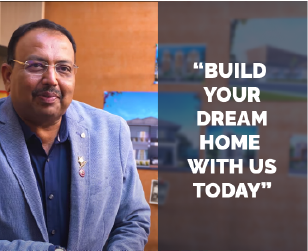
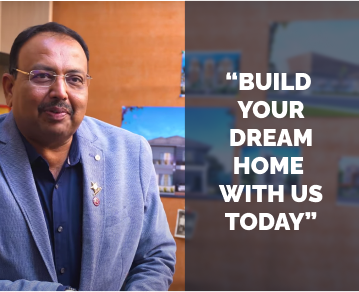
final review

diff --git a/index.html b/index.html
@@ -17,7 +17,9 @@
     
 </head>
 <body>
-  <nav class="navbar navbar-light bg-light">
+
+    <div id="carousel-example-generic" class="carousel slide" data-ride="carousel" data-interval="false">
+       <nav class="navbar navbar-light bg-light">
     <div class="container">
       <a href=" https://www.sandstoneconstruct.com/"> Website</a>
       <a  href="#" class="some1">
@@ -26,7 +28,6 @@
       <a href="https://www.sandstoneconstruct.com/contact.html">Contact</a>
     </div>
   </nav>
-    <div id="carousel-example-generic" class="carousel slide" data-ride="carousel" data-interval="false">
         <!-- Indicators -->
         
         <ol class="carousel-indicators">
@@ -39,8 +40,7 @@
           <li data-target="#carousel-example-generic" data-slide-to="3"></li>
           <li data-target="#carousel-example-generic" data-slide-to="4"></li>
           <li data-target="#carousel-example-generic" data-slide-to="5"></li>
-          <li data-target="#carousel-example-generic" data-slide-to="6"></li>
-          <li data-target="#carousel-example-generic" data-slide-to="7"></li>
+      
         </ol>
       
         <!-- Wrapper for slides -->
@@ -48,7 +48,7 @@
           <div class="item active">
             <img src="images/Frame 1.png" alt="">
             <div class="carousel-caption">
-              <h2>THE SANDSTONE PROJECT</h2>
+              <h2 class="center">THE SANDSTONE PROJECT</h2>
               <ul>
                   <li>One of the leading construction firm specializing in turkey assignments and interior solutions</li>
                   <li>Over 25years of experience in the field</li>
@@ -121,10 +121,10 @@
             </div>
           </div>
           <div class="item">
-            <img src="images/SANDSTONE CONSTRUCTIONS (800 x 631 px) (1).gif" alt="">
+            <img src="images/SANDSTONE CONSTRUCTIONS (317 x 250 px).gif" alt="">
             <div class="carousel-caption">
-            <center><h2>PROJECT SPECIFICATIONS WITH PACKAGES</h2></center>  
-              <div>
+      <h2 class="center">PROJECT SPECIFICATIONS WITH PACKAGES</h2>
+              <div class="middle">
                 <br/>
                 <a  class="btn btn-primary1 btn-lg" href="images/Sandstone specifications - 2021-1.pdf" target="_blank">DOWNLOAD HERE</a>
               </div>
@@ -133,13 +133,22 @@
           <div class="item">
             <img src="images/epilogue.png" alt="">
             <div class="carousel-caption">
+              <div class="flow">
+              <div class="some">
+                <button class="button"><a href="https://www.sandstoneconstruct.com/contact.html">Contact</a></button>
+                <button class="button"><a href="https://www.sandstoneconstruct.com">Website</a></button>
+                <button class="button" ><a href="https://www.sandstoneconstruct.com/project.html">Projects </a></button>
+            </div>
+            <div class="para">
               <h2>CLIENT TESTIMONY</h2>
-              <div class="epilogue-para">
+           
                 <p><b>" Professionalism , Punctuality, Quality, Responsiveness, Value"</b></p>
                 <p>We have choose Standstone Constructions to renovate and construct an independent house, we had many questions on the quality, time and design of construction but in the first meeting they have explained and cleared us on.Eact attributes of construction and concerns we have raised. The other things which will make them apart from other construction is that each streams (structural, surveyor,etc.) is Handle by engineers who are specialized in it and they are material Specific and quality specific.</p>
                 <p>We are really happy with their quality and in time work</p>
-              </div>
-              <div>
+              
+            </div>
+            </div>
+              <div class="some1">
                   <button class="button"><a href="https://www.sandstoneconstruct.com/contact.html">Contact</a></button>
                   <button class="button"><a href="https://www.sandstoneconstruct.com">Website</a></button>
                   <button class="button" ><a href="https://www.sandstoneconstruct.com/project.html">Projects </a></button>

diff --git a/style.css b/style.css
@@ -2,9 +2,12 @@ body {
 	font-family: 'Poppins', sans-serif;
 }
 .navbar{
-text-align: center;
+
 margin-bottom: 0!important;
 
+}
+h2{
+    font-family: 'Glyphicons Halflings';
 }
 .navbar::after{
     position: absolute;
@@ -18,11 +21,7 @@ margin-bottom: 0!important;
 .carousel-caption{
     text-shadow: none;
 }
- .container > a{
-    text-align: center;
- color:#C69C6C;    
-    }
-    
+
 
 .navbar-inverse{
     background-color: transparent;
@@ -75,12 +74,6 @@ margin-bottom: 0!important;
     color: rgb(198,156 ,108 );
 }
 
-.item img{
-    text-align: center;
-    padding-top: 4%;
-    margin-left: 35rem;
-
-}
 a{
     color:#C69C6C;
 }
@@ -105,55 +98,70 @@ ol,ul{
     text-align: justify;
 }
 
-
+@media (min-width: 1200px){
+.container {
+    width: 696px;
+}
+}
 @media only screen and (min-width:1024px) {
+    
+.item img{
+    text-align: center;
+    padding-top: 1%;
+    margin-left: 35rem;
 
+}
+
+
+.container > a{
+  padding-right: 10px;
+ color:#C69C6C;    
+    }
+    
+    .some >button{
+        margin-left: 40rem;
+        margin-top: 2rem;
+        margin-bottom: 2rem;
+   ;
+    }
     .some1 {
-        visibility: hidden;
+       display: none;
     }
     .carousel-indicators{
         transform: rotate(90deg);
         left: 15%;
     }
     .carousel-inner .item{
-        height: 160vh;
-        align-items: center;
+        height: 100vh;
+    
+
     }
     ol.carousel-indicators{
         margin-bottom: 30rem;
     }
-    .carousel-inner>.item>a>img, .carousel-inner>.item>img, .img-responsive, .thumbnail a>img, .thumbnail>img {
-        width: 53%;
-        height: 59%;
-    }
-    .item img{
-        padding-top: 2%;
-        margin-left: 43rem;
-    }
+ .center{
+    margin-left: 30rem;
+ }
+ .middle{
+    margin-left: 35rem;
+ }
     .group{
         margin-left: 0;
         padding-right: 5rem;
     }
     .carousel-caption{
         left: 0;
-        top: 58%;
+        top: 45%;
     }
-    .carousel-caption p{
-        margin-left: 2rem;
-        font-size: 2rem;
-    }
+  
     .epilogue-para{
         margin-left: 42rem;
     }
-    .carousel-caption h2{
-        margin-left: 13rem;
-    }
-    .para h2{
-    text-align: center;
-    }
+
+
     .carousel-caption ul{
-        margin-left: 40rem;
-        font-size: 2rem;
+        margin-left: 35rem;
+        font-size: 1.8rem;
     }
     .carousel-caption .group{
         top: 36rem;
@@ -177,12 +185,46 @@ ol,ul{
     button{
         border-radius: 8px;
     }
+    .button1:active{
+        border:1px solid #C69C6C;
+        padding: 8px 20px;
+    }
+    .button1:hover{
+        border:1px solid #C69C6C;
+        padding: 20px 20px;
+        padding-top: 5px!important;
+        color:#C69C6C;
+    }
+    .button1{
+        width: 100px!important;
+        height: 60px!important;
+
+    }
+      .button{
+          border-radius: 12px;
+          background: white;;
+      }
     
 }
 
 @media only screen and (max-width: 767px){
+    .container > a{
+        text-align: center;
+     color:#C69C6C;    
+        }
+        .navbar{
+            text-align: center;
+        }
+          
+.item img{
+    text-align: center;
+    padding-top: 4%;
+    margin-left: 35rem;
+
+}
     .some {
-        visibility: hidden;
+        display: none;
+
     }
     .carousel-inner .item{
         height: 100vh;
